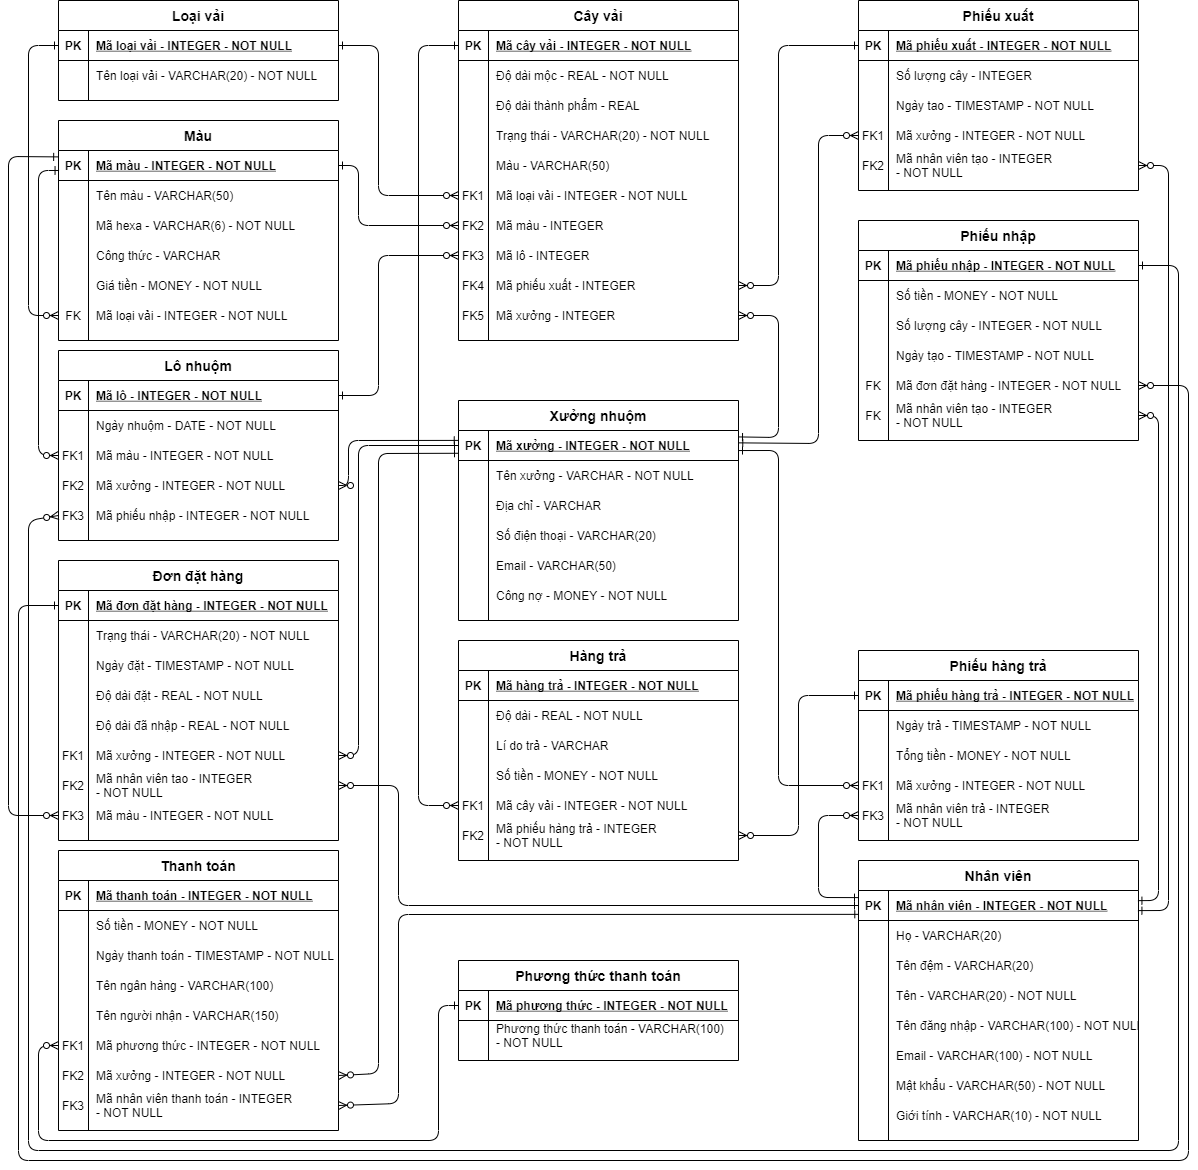
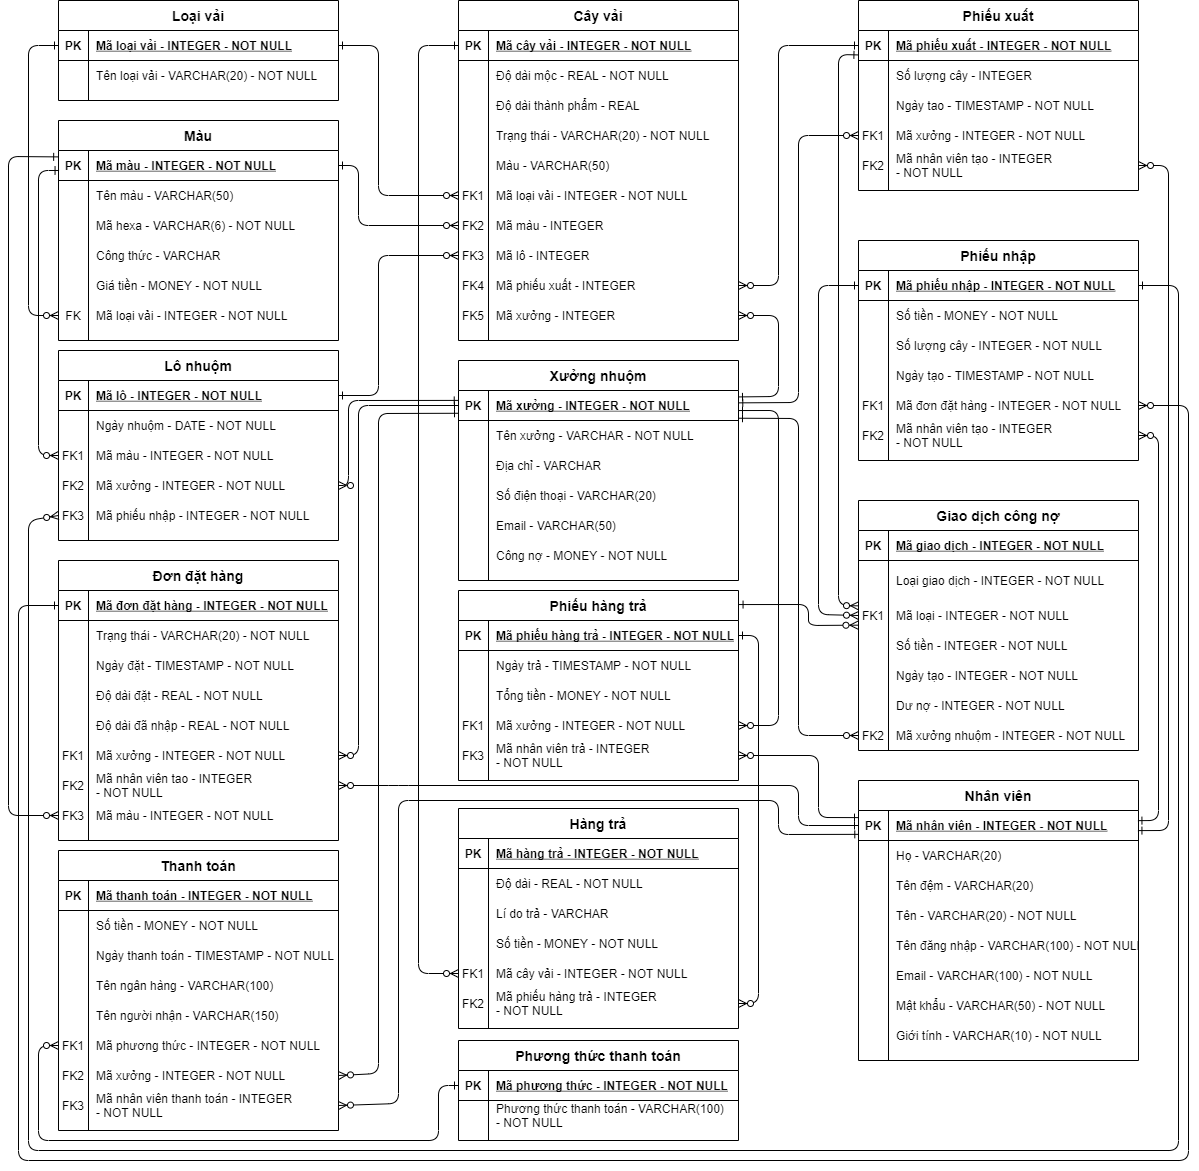
Updates from Overleaf

diff --git a/Text/Requires/usecase.tex b/Text/Requires/usecase.tex
@@ -1,5 +1,5 @@
 \subsubsection{Lược đồ Usecase}
-Đối tượng thao tác trên hệ thống gồm có: Nhân viên và quản lí.\par
+Đối tượng thao tác trên hệ thống gồm có: Nhân viên và Quản lí.\par
 Các chức năng được đặc tả trong sơ đồ Usecase Hình \ref{usecase} dưới đây.
 
 \begin{figure}[H]
@@ -19,7 +19,7 @@ Các chức năng được đặc tả trong sơ đồ Usecase Hình \ref{usecas
     \hline 
         Use-case ID & 1\\ \hline
         Use-case name & Đăng nhập\\ \hline
-        Actor & Nhân viên, quản trị viên.\\ \hline
+        Actor & Nhân viên, Quản lí.\\ \hline
         Description & Người dùng phải nhập tài khoản, mật khẩu để có thể sử dụng hệ thống.\\ \hline
         Preconditions & Người dùng đã đăng kí tài khoản và đang ở trang đăng nhập.\\ \hline
         Postconditions & Người dùng đã đăng nhập và có thể sử dụng hệ thống.\\ \hline
@@ -48,7 +48,7 @@ Các chức năng được đặc tả trong sơ đồ Usecase Hình \ref{usecas
     \hline 
         Use-case ID & 2\\ \hline
         Use-case name & Khôi phục mật khẩu.\\ \hline
-        Actor & Nhân viên, quản trị viên.\\ \hline
+        Actor & Nhân viên, Quản lí.\\ \hline
         Description & Người dùng quên mật khẩu tài khoản của mình thì vẫn có thể đặt lại mật khẩu mới qua xác thực email.\\ \hline
         Preconditions & Người dùng đã có tài khoản hệ thống.\\ \hline
         Postconditions & Người dùng đặt lại mật khẩu mới.\\ \hline
@@ -76,7 +76,7 @@ Các chức năng được đặc tả trong sơ đồ Usecase Hình \ref{usecas
     \hline 
         Use-case ID & 14\\ \hline
         Use-case name & Dashboard\\ \hline
-        Actor & Nhân viên, quản trị viên.\\ \hline
+        Actor & Nhân viên, Quản lí.\\ \hline
         Description & Người dùng có thể xem các thông tin thống kê.\\ \hline
         Preconditions & Người dùng đã đăng nhập vào hệ thống.\\ \hline
         Postconditions & Người dùng xem các thông tin thống kê.\\ \hline
@@ -103,9 +103,9 @@ Các chức năng được đặc tả trong sơ đồ Usecase Hình \ref{usecas
     \hline 
         Use-case ID & 15\\ \hline
         Use-case name & Tạo nhân viên mới\\ \hline
-        Actor & Quản trị viên.\\ \hline
-        Description & Quản trị viên có thể tạo nhân viên mới.\\ \hline
-        Preconditions & Quản trị viên đã đăng nhập vào hệ thống.\\ \hline
+        Actor & Quản lí.\\ \hline
+        Description & Quản lí có thể tạo nhân viên mới.\\ \hline
+        Preconditions & Quản lí đã đăng nhập vào hệ thống.\\ \hline
         Postconditions & Nhân viên mới được tạo.\\ \hline
         Normal Flow & 
         1. Nhấn vào nút "Tạo nhân viên" trên thanh menu.\par 
@@ -135,9 +135,9 @@ Các chức năng được đặc tả trong sơ đồ Usecase Hình \ref{usecas
     \hline 
         Use-case ID & 16\\ \hline
         Use-case name & Tạo xưởng nhuộm mới\\ \hline
-        Actor & Quản trị viên.\\ \hline
-        Description & Quản trị viên có thể tạo xưởng nhuộm mới.\\ \hline
-        Preconditions & Quản trị viên đã đăng nhập vào hệ thống.\\ \hline
+        Actor & Quản lí.\\ \hline
+        Description & Quản lí có thể tạo xưởng nhuộm mới.\\ \hline
+        Preconditions & Quản lí đã đăng nhập vào hệ thống.\\ \hline
         Postconditions & Xưởng nhuộm mới được tạo.\\ \hline
         Normal Flow & 
         1. Nhấn vào nút "Tạo xưởng nhuộm" trên thanh menu.\par 
@@ -167,7 +167,7 @@ Các chức năng được đặc tả trong sơ đồ Usecase Hình \ref{usecas
     \hline 
         Use-case ID & 3\\ \hline
         Use-case name & Xem xưởng nhuộm.\\ \hline
-        Actor & Nhân viên, quản trị viên.\\ \hline
+        Actor & Nhân viên, Quản lí.\\ \hline
         Description & Nhân viên có thể xem danh sách các xưởng nhuộm, bao gồm mã xưởng, tên xưởng, tổng công nợ và tổng độ dài mộc tồn. Nhân viên nhấn vào tên xưởng để xem thông tin chi tiết về xưởng.\\ \hline
         Preconditions & Người dùng đã đăng nhập vào hệ thống.\\ \hline
         Postconditions & Người dùng có thể xem các thông tin về xưởng nhuộm.\\ \hline
@@ -196,7 +196,7 @@ Các chức năng được đặc tả trong sơ đồ Usecase Hình \ref{usecas
     \hline 
         Use-case ID & 4\\ \hline
         Use-case name & Chỉnh sửa thông tin xưởng nhuộm.\\ \hline
-        Actor & Nhân viên, quản trị viên.\\ \hline
+        Actor & Nhân viên, Quản lí.\\ \hline
         Description & Người dùng có thể chỉnh sửa một số thông tin cơ bản về xưởng nhuộm như địa chỉ, số điện thoại và email.\\ \hline
         Preconditions & Người dùng đã đăng nhập vào hệ thống.\\ \hline
         Postconditions & Thông tin về xưởng nhuộm sẽ được chỉnh sửa\\ \hline
@@ -227,7 +227,7 @@ Các chức năng được đặc tả trong sơ đồ Usecase Hình \ref{usecas
     \hline 
         Use-case ID & 5\\ \hline
         Use-case name & Thanh toán\\ \hline
-        Actor & Nhân viên, quản trị viên.\\ \hline
+        Actor & Nhân viên, Quản lí.\\ \hline
         Description & Người dùng có thể thanh toán tiền cho xưởng nhuộm.\\ \hline
         Preconditions & Người dùng đã đăng nhập vào hệ thống.\\ \hline
         Postconditions & Xưởng nhuộm được thanh toán.\\ \hline
@@ -260,7 +260,7 @@ Các chức năng được đặc tả trong sơ đồ Usecase Hình \ref{usecas
     \hline 
         Use-case ID & 6\\ \hline
         Use-case name & Xem đơn đặt hàng.\\ \hline
-        Actor & Nhân viên, quản trị viên.\\ \hline
+        Actor & Nhân viên, Quản lí.\\ \hline
         Description & Nhân viên có thể xem danh sách các đơn đặt hàng, bao gồm mã đơn, tên xưởng, ngày đặt, loại vải, màu, độ dài đặt, đã nhận, trạng thái. Nhân viên nhấn đơn đặt hàng để xem thông tin chi tiết về đơn.\\ \hline
         Preconditions & Người dùng đã đăng nhập vào hệ thống.\\ \hline
         Postconditions & Người dùng có thể xem các thông tin về đơn đặt hàng.\\ \hline
@@ -289,7 +289,7 @@ Các chức năng được đặc tả trong sơ đồ Usecase Hình \ref{usecas
     \hline 
         Use-case ID & 7\\ \hline
         Use-case name & Tạo đơn đặt hàng.\\ \hline
-        Actor & Nhân viên, quản trị viên.\\ \hline
+        Actor & Nhân viên, Quản lí.\\ \hline
         Description & Người dùng có thể tạo đơn đặt hàng nhuộm cho xưởng nhuộm.\\ \hline
         Preconditions & Người dùng đã đăng nhập vào hệ thống.\\ \hline
         Postconditions & Đơn đặt hàng mới được tạo\\ \hline
@@ -318,7 +318,7 @@ Các chức năng được đặc tả trong sơ đồ Usecase Hình \ref{usecas
     \hline 
         Use-case ID & 8\\ \hline
         Use-case name & Xem vải mộc.\\ \hline
-        Actor & Nhân viên, quản trị viên.\\ \hline
+        Actor & Nhân viên, Quản lí.\\ \hline
         Description & Người dùng có thể xem số lượng vải mộc tồn trong kho và mộc tồn tại xưởng. Mộc tồn được phân loại theo loại vải.\\ \hline
         Preconditions & Người dùng đã đăng nhập vào hệ thống.\\ \hline
         Postconditions & Người dùng có thể xem các thông tin về vải mộc tồn.\\ \hline
@@ -344,7 +344,7 @@ Các chức năng được đặc tả trong sơ đồ Usecase Hình \ref{usecas
     \hline 
         Use-case ID & 9\\ \hline
         Use-case name & Tạo phiếu xuất vải mộc\\ \hline
-        Actor & Nhân viên, quản trị viên.\\ \hline
+        Actor & Nhân viên, Quản lí.\\ \hline
         Description & Người dùng tạo phiếu xuất vải mộc cho xưởng nhuộm, phiếu xuất gồm nhiều cây vải có thể nhiều thuộc loại vải khác nhau.\\ \hline
         Preconditions & Người dùng đã đăng nhập vào hệ thống.
         \\ \hline
@@ -376,7 +376,7 @@ Các chức năng được đặc tả trong sơ đồ Usecase Hình \ref{usecas
     \hline 
         Use-case ID & 10\\ \hline
         Use-case name & Xem vải thành phẩm.\\ \hline
-        Actor & Nhân viên, quản trị viên.\\ \hline
+        Actor & Nhân viên, Quản lí.\\ \hline
         Description & Người dùng có thế xem danh sách các phiếu nhập vải thành phẩm từ xưởng, bao gồm mã phiếu, tổng thành phẩm, loại vải, màu, ngày nhộm.\\ \hline
         Preconditions & Người dùng đã đăng nhập vào hệ thống.\\ \hline
         Postconditions & Người dùng có thể xem thông tin về lô nhuộm và các cây vải thành phẩm trong lô.\\ \hline
@@ -402,7 +402,7 @@ Các chức năng được đặc tả trong sơ đồ Usecase Hình \ref{usecas
     \hline 
         Use-case ID & 12\\ \hline
         Use-case name & Tạo phiếu nhập vải thành phẩm.\\ \hline
-        Actor & Nhân viên, quản trị viên.\\ \hline
+        Actor & Nhân viên, Quản lí.\\ \hline
         Description & Người dùng sẽ tạo phiếu nhập vải thành phẩm từ xưởng nhuộm về kho. Mỗi phiếu nhập sẽ bao gồm nhiều cây vải thành phẩm.\\ \hline
         Preconditions & Người dùng đã đăng nhập vào hệ thống \\ \hline
         Postconditions & Phiếu nhập vải thành phẩm sẽ được tạo.\\ \hline
@@ -435,7 +435,7 @@ Các chức năng được đặc tả trong sơ đồ Usecase Hình \ref{usecas
     \hline 
         Use-case ID & 12\\ \hline
         Use-case name & Xem hàng trả\\ \hline
-        Actor & Nhân viên, quản trị viên.\\ \hline
+        Actor & Nhân viên, Quản lí.\\ \hline
         Description & Người dùng có thể xem danh sách phiếu hàng trả. Mỗi phiếu hàng trả có thể có nhiều hàng trả. Người dùng có thể xem thông tin chi tiết của phiếu hàng trả bao gồm danh sách hàng trả của phiếu.\\ \hline
         Preconditions & Người dùng đã đăng nhập vào hệ thống.\\ \hline
         Postconditions & Người dùng xem được thông tin của phiếu hàng trả và danh sách hàng trả của phiếu hàng trả.\\ \hline
@@ -460,7 +460,7 @@ Các chức năng được đặc tả trong sơ đồ Usecase Hình \ref{usecas
     \hline 
         Use-case ID & 13\\ \hline
         Use-case name & Tạo phiếu hàng trả\\ \hline
-        Actor & Nhân viên, quản trị viên.\\ \hline
+        Actor & Nhân viên, Quản lí.\\ \hline
         Description & Người dùng có thể tạo phiếu hàng trả, sau đó hàng trả sẽ lần lượt được thêm vào phiếu hàng trả.\\ \hline
         Preconditions & Người dùng đã đăng nhập vào hệ thống.\\ \hline
         Postconditions & Phiếu hàng trả và hàng trả được tạo.\\ \hline
@@ -491,7 +491,7 @@ Các chức năng được đặc tả trong sơ đồ Usecase Hình \ref{usecas
     \hline 
         Use-case ID & 17\\ \hline
         Use-case name & Danh sách công nợ\\ \hline
-        Actor & Nhân viên, quản trị viên.\\ \hline
+        Actor & Nhân viên, Quản lí.\\ \hline
         Description & Xem danh sách công nợ của các xưởng nhuộm.\\ \hline
         Preconditions & Người dùng đã đăng nhập vào hệ thống.\\ \hline
         Postconditions & Người dùng có thể xem các thông tin về công nợ.\\ \hline
@@ -506,16 +506,39 @@ Các chức năng được đặc tả trong sơ đồ Usecase Hình \ref{usecas
     \label{bang17}
 \end{table}
 
-
-\textbf{Danh sách hoá đơn thanh toán}\par
-\textbf{User story:} Là người dùng của hệ thống, tôi có thể xem được danh sách hoá đơn đã thanh toán cho các xưởng nhuộm. Mỗi hàng trong danh sách này là một hoá đơn bao gồm các thông tin xưởng nhuộm, số tiền, phương thức thanh toán, ngân hàng, ngày tạo, nhân viên tạo, nhân viên nhận. [Bảng \ref{bang18}]
+\textbf{Chi tiết công nợ}\par
+\textbf{User story:} Là người dùng của hệ thống, tôi có thể xem được thông tin chi tiết về các giao dịch công nợ của một xưởng nhuộm. Cụ thể, tôi có thể chọn được khoảng thời gian để xem các khoảng tăng giảm công nợ, xem được dư nợ đầu kì và dư nợ cuối kì trong khoảng thời gian này. Các loại giao dịch này phát sinh khi thực hiện 3 hoạt động sau đây: nhập vải thành phẩm (làm tăng công nợ), tạo hàng trả (làm giảm công nợ), thanh toán công nợ (làm giảm công nợ). [Bảng \ref{bang18}]
 \begin{table}[H]
     \centering
     \begin{tabular}{|m{3cm}|m{10cm}|}
     \hline 
         Use-case ID & 18\\ \hline
+        Use-case name & Chi tiết công nợ\\ \hline
+        Actor & Nhân viên, Quản lí.\\ \hline
+        Description & Xem thông tin chi tiết công nợ của xưởng nhuộm.\\ \hline
+        Preconditions & Người dùng đã đăng nhập vào hệ thống.\\ \hline
+        Postconditions & Người dùng có thể xem các thông tin về công nợ.\\ \hline
+        Normal Flow & 
+        1. Nhấn vào nút "Danh sách công nợ" trên thanh menu, danh sách công nợ xuất hiện.
+        2. Chọn xưởng nhuộm cần xem thông tin chi tiết.
+        \\ \hline
+        Exception & Không có\\ \hline
+        Alternative flow & Không có\\ 
+    \hline 
+    \end{tabular}
+    \caption{Chi tiết công nợ}
+    \label{bang18}
+\end{table}
+
+\textbf{Danh sách hoá đơn thanh toán}\par
+\textbf{User story:} Là người dùng của hệ thống, tôi có thể xem được danh sách hoá đơn đã thanh toán cho các xưởng nhuộm. Mỗi hàng trong danh sách này là một hoá đơn bao gồm các thông tin xưởng nhuộm, số tiền, phương thức thanh toán, ngân hàng, ngày tạo, nhân viên tạo, nhân viên nhận. [Bảng \ref{bang19}]
+\begin{table}[H]
+    \centering
+    \begin{tabular}{|m{3cm}|m{10cm}|}
+    \hline 
+        Use-case ID & 19\\ \hline
         Use-case name & Danh sách hoá đơn thanh toán\\ \hline
-        Actor & Nhân viên, quản trị viên.\\ \hline
+        Actor & Nhân viên, Quản lí.\\ \hline
         Description & Xem danh sách hoá đơn thanh toán của các xưởng nhuộm.\\ \hline
         Preconditions & Người dùng đã đăng nhập vào hệ thống.\\ \hline
         Postconditions & Người dùng có thể xem các thông tin về hoá đơn thanh toán.\\ \hline
@@ -529,7 +552,7 @@ Các chức năng được đặc tả trong sơ đồ Usecase Hình \ref{usecas
     \hline 
     \end{tabular}
     \caption{Danh sách hoá đơn thanh toán}
-    \label{bang18}
+    \label{bang19}
 \end{table}
 
 % \textbf{User story:} [Bảng \ref{bang5}]

diff --git a/Text/Design_system/kien_truc_he_thong.tex b/Text/Design_system/kien_truc_he_thong.tex
@@ -1,12 +1,12 @@
 \begin{figure}[H]
     \begin{center}
-        \includegraphics[width=14cm]{Image/Technical/architecture.png}
+        \includegraphics[width=16cm]{Image/Technical/architecture.png}
         \caption{Kiến trúc hệ thống}
         \label{architecture}
     \end{center}
 \end{figure}
 
-Kiến trúc của hệ thống được thiết kế đơn giản như Hình \ref{architecture} bao gồm các thành phần sau:
+Kiến trúc của hệ thống được thiết kế như Hình \ref{architecture} bao gồm các thành phần sau:
 \subsubsection{Website (front-end)}
 \begin{itemize}
     \item Component: chứa các view hiển thị cho người dùng.
@@ -29,10 +29,10 @@ Kiến trúc của hệ thống được thiết kế đơn giản như Hình \r
         \item Order Service: Service chịu trách nhiệm tạo, xử lý, lưu trữ các thông tin về đơn đặt hàng cho xưởng nhuộm.
         \item Notify Service: Service chịu trách nhiệm quản lý các thông báo cho hệ thống.
         \item Payment Service: Service chịu trách nhiệm quản lý các thông tin về thanh toán giữa doanh nghiệp và các xưởng nhuộm.
-        \item General service: Service chịu trách nhiệm xử lí các nghiệp vụ b
+        \item General service: Service chịu trách nhiệm xử lí các nghiệp vụ business chung của hệ thống. Service này gồm nhiều Service tạo thành, có chức năng riêng lẻ.
     \end{itemize}
     
-    \item \textbf{Models} là thành phần thao tác trực tiếp với CSDL. Một model ánh xạ chính xác một quan hệ từ cơ sở dữ liệu và các ràng buộc liên quan. Các model có mối liên hệ với nhau bằng mối liên hệ của đối tượng.
+    \item \textbf{Models} là thành phần thao tác trực tiếp với CSDL. Một model ánh xạ chính xác một quan hệ từ cơ sở dữ liệu và các ràng buộc liên quan, các model có tên tương ứng. Các model có mối liên hệ với nhau bằng mối liên hệ của đối tượng.
     
     \item \textbf{Exception Filter} được dành riêng cho việc bắt các lỗi exception và phản hồi lỗi về cho người dùng. Việc chỉ định vai trò này cho một mình Exception Filter thể hiện rõ tính module hoá.
 

diff --git a/Text/Design_system/thiet_ke_database.tex b/Text/Design_system/thiet_ke_database.tex
@@ -149,6 +149,7 @@ Sau khi thiết kế ERD nhóm tiến hành chuyển đổi thành các bảng t
         \label{orders}
     \end{table}
     
+    \newpage
     \item \textbf{import\_slip}
     \begin{table}[H]
         \centering
@@ -167,7 +168,24 @@ Sau khi thiết kế ERD nhóm tiến hành chuyển đổi thành các bảng t
         \label{import_slip}
     \end{table}
     
-    \newpage
+    \item \textbf{debt}
+    \begin{table}[H]
+        \centering
+        \begin{tabular}{|m{3cm}|m{10cm}|}
+        \hline 
+            id & Mã giao dịch công nợ\\ \hline
+            type & Loại giao dịch \\ \hline
+            id\_transaction & Mã loại giao dịch\\ \hline
+            amount & Số tiền của giao dịch\\ \hline
+            create\_date & Ngày tạo giao dịch \\ \hline
+            total & Dư nợ\\ \hline
+            dyehouse\_id & Mã xưởng nhuộm\\
+        \hline 
+        \end{tabular}
+        \caption{Giao dịch công nợ}
+        \label{debt}
+    \end{table}
+    
     \item \textbf{export\_slip}
     \begin{table}[H]
         \centering
@@ -232,7 +250,6 @@ Sau khi thiết kế ERD nhóm tiến hành chuyển đổi thành các bảng t
         \label{payment}
     \end{table}
     
-    \newpage
     \item \textbf{fabric}
     \begin{table}[H]
         \centering
@@ -254,6 +271,7 @@ Sau khi thiết kế ERD nhóm tiến hành chuyển đổi thành các bảng t
         \label{fabric}
     \end{table}
 
+    \newpage
     \item \textbf{return\_slip}
     \begin{table}[H]
         \centering

diff --git a/LVTN_report.tex b/LVTN_report.tex
@@ -9,7 +9,8 @@
  left=30mm,
  top=30mm,
 }
-
+\usepackage{mwe}
+\usepackage{afterpage}
 \usepackage{float}
 \usepackage{booktabs}
 \usepackage{amsmath}
@@ -117,6 +118,13 @@
 \begin{document}
 
 \begin{titlepage}
+\newgeometry{
+ left=20mm,
+ top=20mm,
+ bottom=20mm,
+ right=20mm,
+}
+\afterpage{\aftergroup\restoregeometry}
 \begin{center}
 \textbf{{\Large ĐẠI HỌC QUỐC GIA THÀNH PHỐ HỒ CHÍ MINH \\
 TRƯỜNG ĐẠI HỌC BÁCH KHOA \\
@@ -157,7 +165,7 @@ KHOA KHOA HỌC - KỸ THUẬT MÁY TÍNH}}
 \end{table}
 
 \begin{center}
-{\footnotesize {\large TP. HỒ CHÍ MINH, THÁNG 07/2021}}
+{\footnotesize {\large TP. HỒ CHÍ MINH, THÁNG 08/2021}}
 \end{center}
 \end{titlepage}
 

diff --git a/Text/Salutation/loi_cam_doan.tex b/Text/Salutation/loi_cam_doan.tex
@@ -1,6 +1,6 @@
 Nhóm cam đoan mọi điều được trình bày trong báo cáo, cũng như mã nguồn là do nhóm tự thực hiện - trừ các kiến thức tham khảo có trích dẫn cũng như mã nguồn mẫu do chính nhà sản xuất cung cấp, hoàn toàn không sao chép từ bất cứ nguồn nào khác. Nếu lời cam đoan trái với sự thật, nhóm xin chịu mọi trách nhiệm trước Ban Chủ Nhiệm Khoa và Ban giám hiệu Nhà trường.
 \begin{flushright}
-Tp. Hồ Chí Minh, tháng 7 năm 2021.\par
+Tp. Hồ Chí Minh, tháng 8 năm 2021.\par
 
 Nhóm sinh viên thực hiện đề tài
 \end{flushright}

diff --git a/Text/Test/kiem_thu_API.tex b/Text/Test/kiem_thu_API.tex
@@ -75,6 +75,13 @@
 \end{figure}
 \begin{figure}[H]
     \begin{center}
+        \includegraphics[width=12cm]{Image/API/10b_getDebt.jpg}
+        \caption{Kiểm thử với API lấy thông tin chi tiết công nợ của xưởng}
+        \label{getDebt}
+    \end{center}
+\end{figure}
+\begin{figure}[H]
+    \begin{center}
         \includegraphics[width=12cm]{Image/API/11_listPaymentMethod.jpg}
         \caption{Kiểm thử với API lấy danh sách phương thức thanh toán}
         \label{listPaymentMethod}

diff --git a/Text/Requires/chuc_nang_he_thong.tex b/Text/Requires/chuc_nang_he_thong.tex
@@ -46,6 +46,7 @@
     \item Quản lí công nợ
     \begin{itemize}
         \item Xem danh sách công nợ của các xưởng
+        \item Xem thông tin chi tiết công nợ của xưởng theo kì
         \item Tạo hoá đơn thanh toán cho xưởng 
         \item Xem danh sách các hoá đơn thanh toán
         \item Tính toán công nợ dựa vào các lần nhập vải thành phẩm và trả các cây vải lỗi

diff --git a/Text/Salutation/loi_cam_on.tex b/Text/Salutation/loi_cam_on.tex
@@ -12,7 +12,7 @@ Do giới hạn kiến thức và khả năng lý luận của bản thân còn 
 Cuối cùng, nhóm xin chân thành cảm ơn đến những người đã dành thời gian đọc tài liệu báo cáo này.
 
 \begin{flushright}
-Tp. Hồ Chí Minh, tháng 7 năm 2021.\par
+Tp. Hồ Chí Minh, tháng 8 năm 2021.\par
 
 Nhóm sinh viên thực hiện đề tài.
 \end{flushright}
